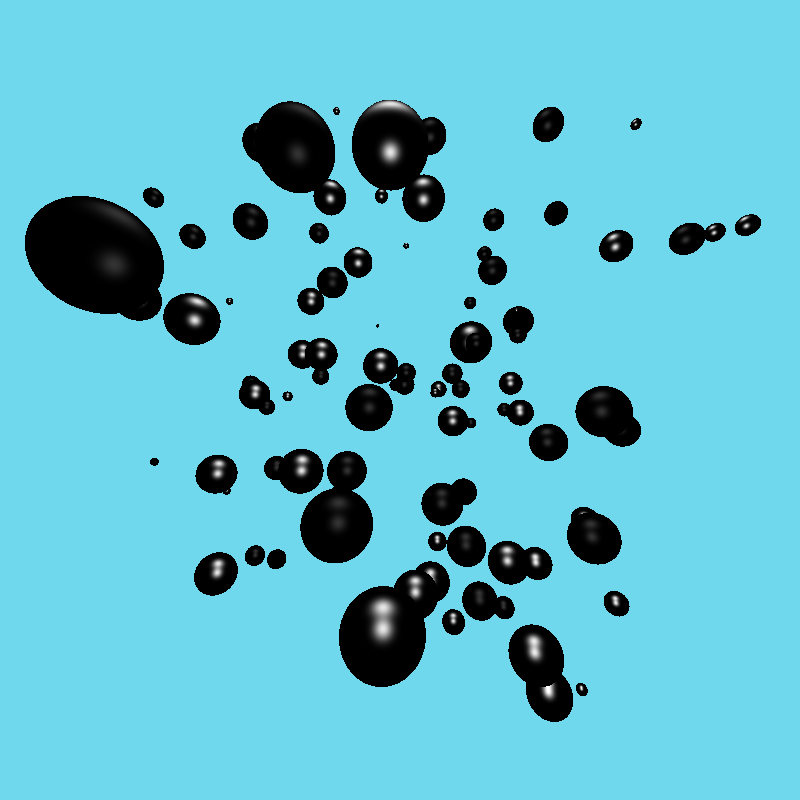
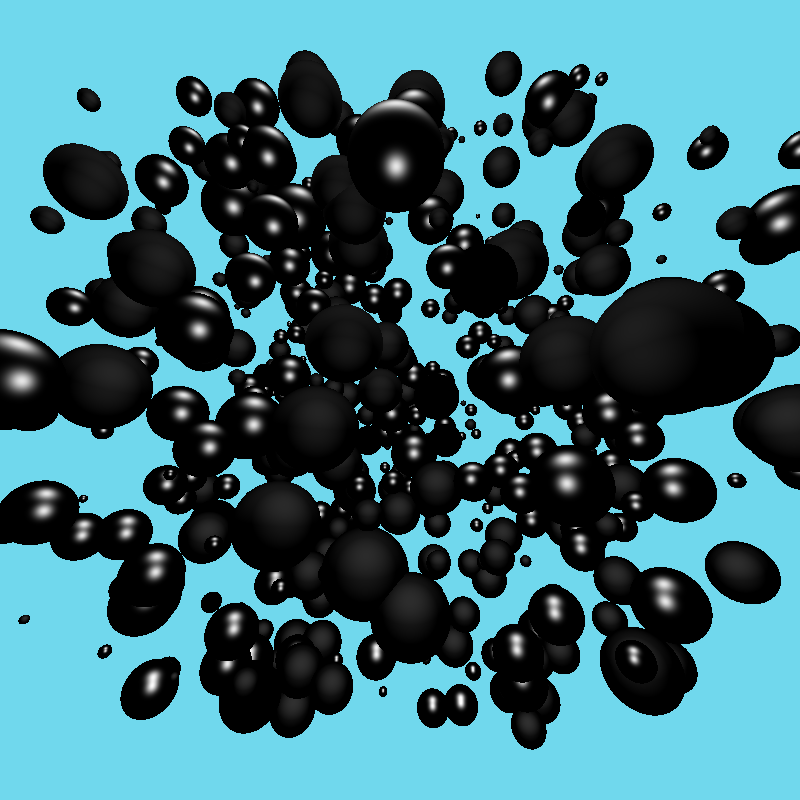
changes happen

diff --git a/src/scene/Material.java b/src/scene/Material.java
@@ -15,12 +15,12 @@ public record Material(Color color, double ambient, double diffuse, double specu
     public static Material BLACK    = new Material(Color.BLACK,   .2, .9, .9, 10, false);
     public static Material GRAY     = new Material(Color.GRAY,    .2, .9, .9, 10, false);
 
-    public static Material PINK     = new Material(Color.PINK  ,  .2, .9, .2, 10, false);
-    public static Material ORANGE   = new Material(Color.ORANGE,  .2, .9, .2, 10, false);
-    public static Material LEMON    = new Material(Color.LEMON ,  .2, .9, .2, 10, false);
-    public static Material LIME     = new Material(Color.LIME  ,  .2, .9, .2, 10, false);
-    public static Material AZURE    = new Material(Color.AZURE ,  .2, .9, .2, 10, false);
-    public static Material PURPLE   = new Material(Color.PURPLE,  .2, .9, .2, 10, false);
-    public static Material DARK     = new Material(Color.DARK  ,  .2, .9, .2, 10, false);
-    public static Material LIGHT    = new Material(Color.LIGHT ,  .2, .9, .2, 10, false);
+    public static Material PINK     = new Material(Color.PINK  ,  .2, .9, .1, 1, false);
+    public static Material ORANGE   = new Material(Color.ORANGE,  .2, .9, .1, 1, false);
+    public static Material LEMON    = new Material(Color.LEMON ,  .2, .9, .1, 1, false);
+    public static Material LIME     = new Material(Color.LIME  ,  .2, .9, .1, 1, false);
+    public static Material AZURE    = new Material(Color.AZURE ,  .2, .9, .1, 1, false);
+    public static Material PURPLE   = new Material(Color.PURPLE,  .2, .9, .1, 1, false);
+    public static Material DARK     = new Material(Color.DARK  ,  .2, .9, .1, 1, false);
+    public static Material LIGHT    = new Material(Color.LIGHT ,  .2, .9, .1, 1, false);
 }

diff --git a/src/gui/App.java b/src/gui/App.java
@@ -89,7 +89,7 @@ public class App extends JFrame implements ActionListener {
                 field.setText(s);
             } else System.out.println("Open command cancelled by user.");
         }else if(e.getSource() == random){
-            Scene s = Scene.randomSpheres(100);
+            Scene s = Scene.randomSpheres(500);
 
             s.makeImage(new AmbientShader());
             s.makeImage(new DiffuseShader());
